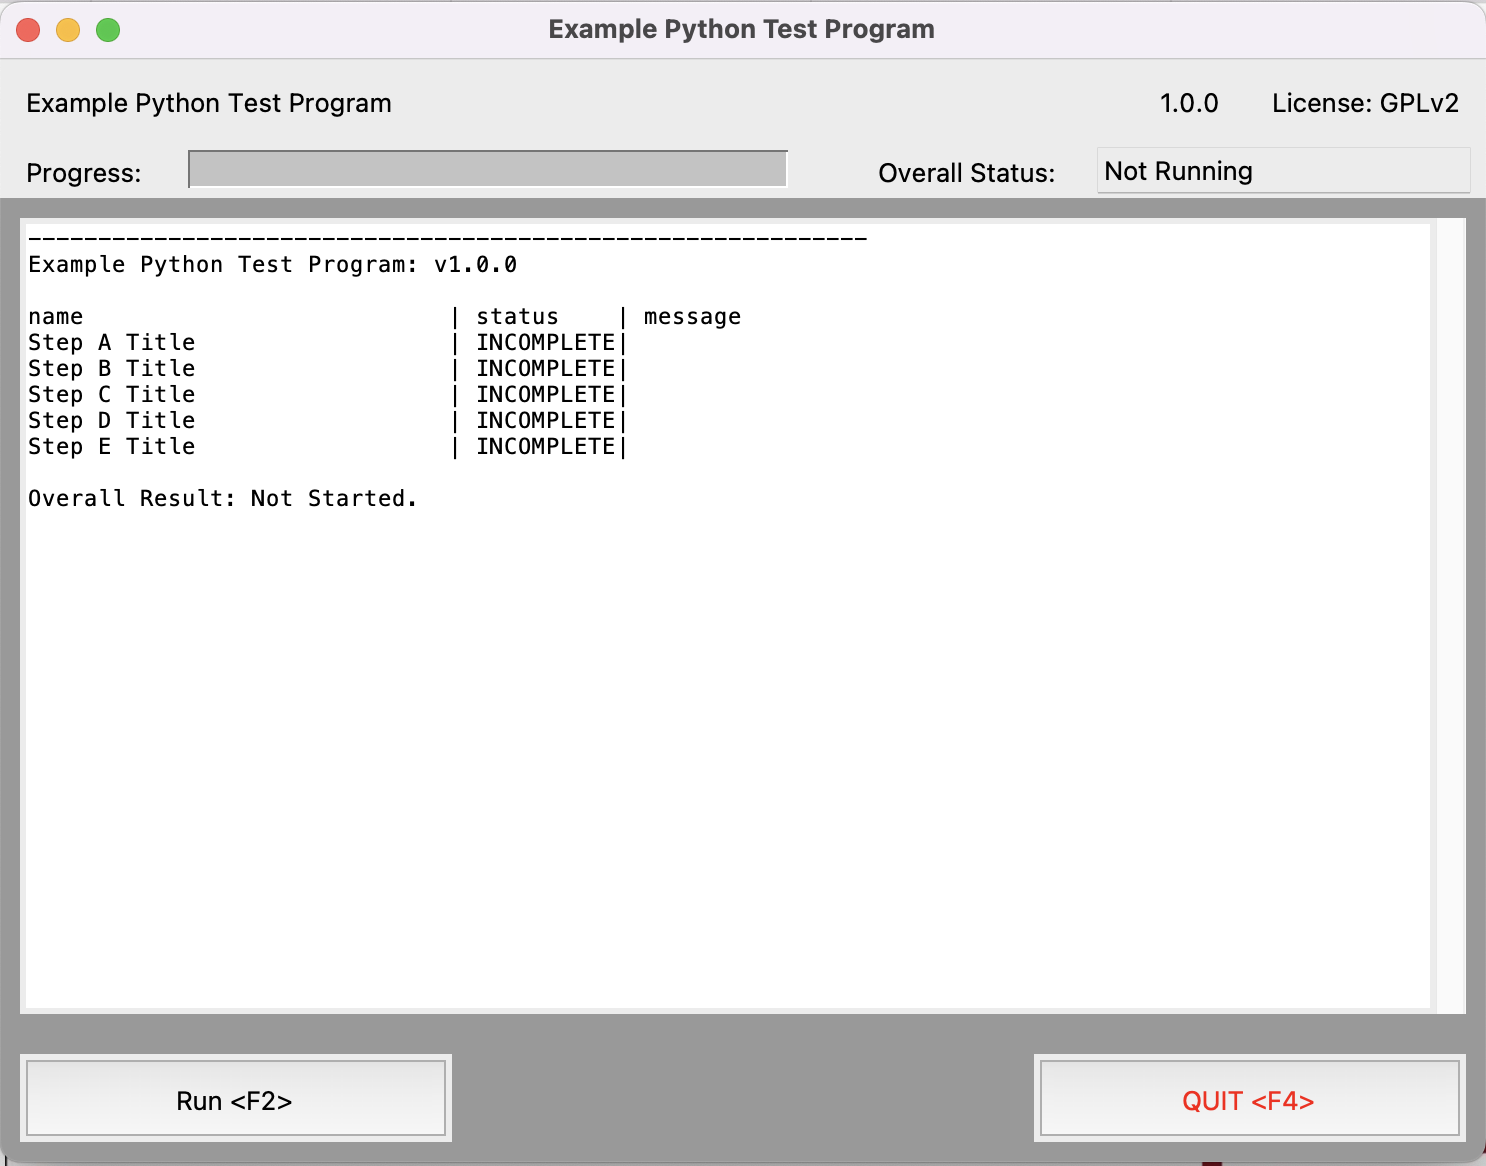
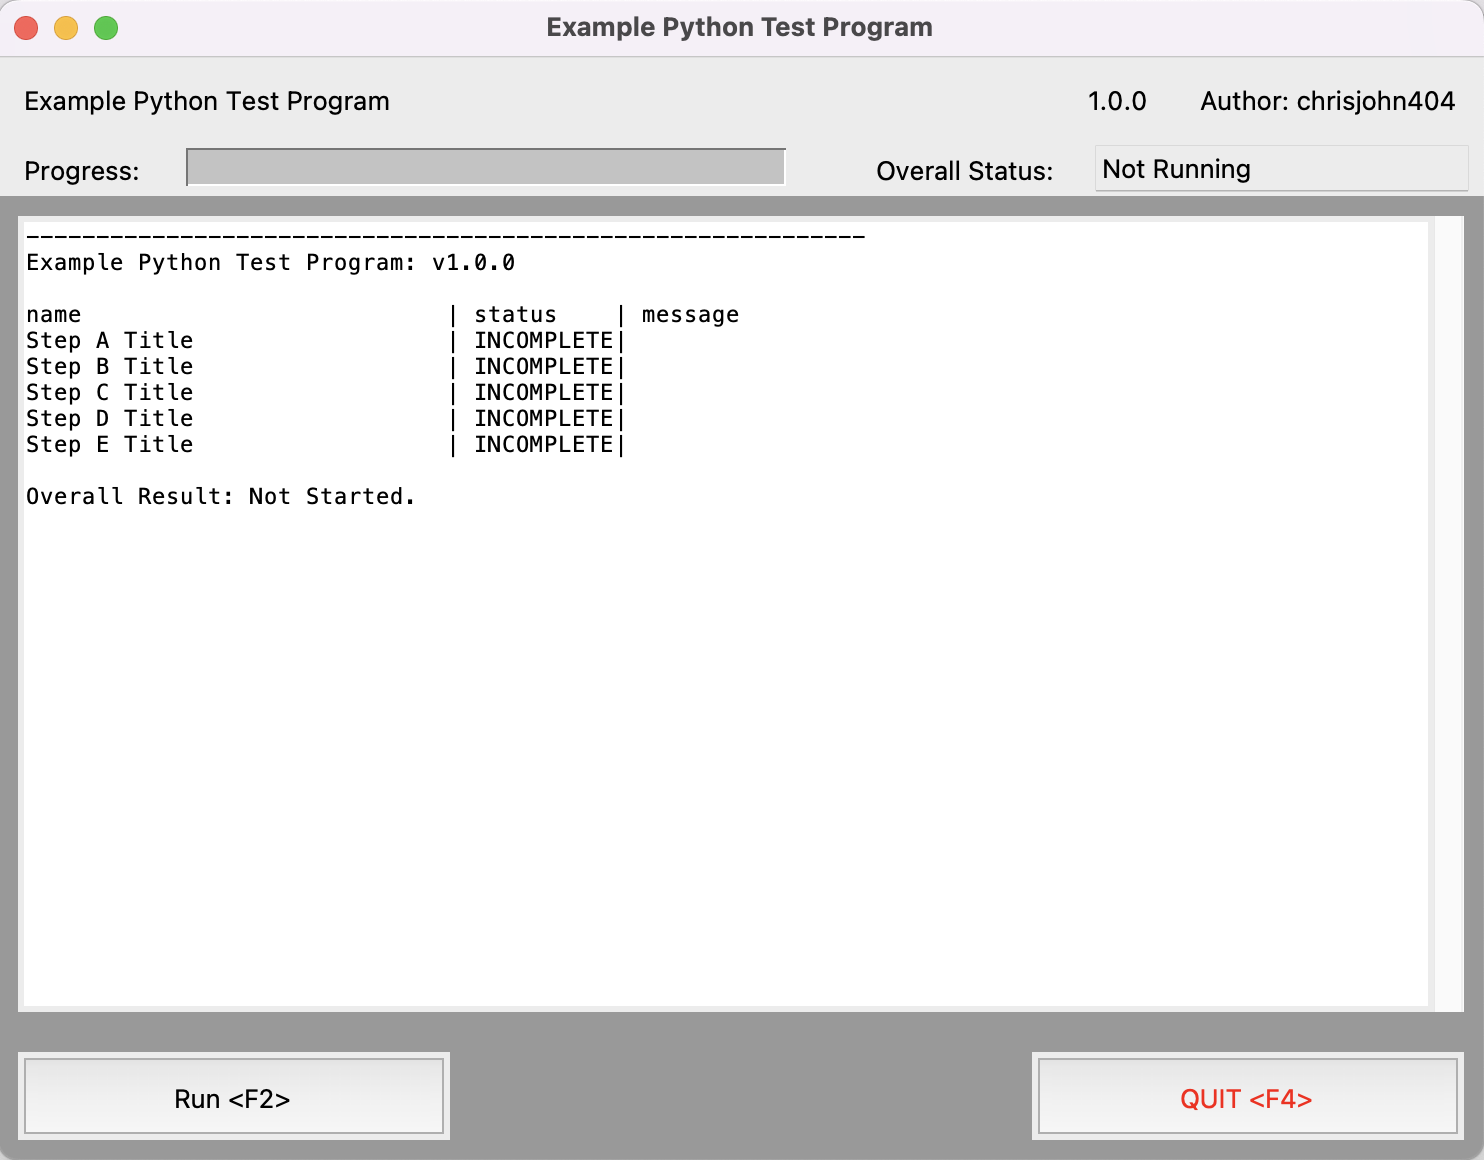
Added author note for screen shot.

diff --git a/tp_core/gui.py b/tp_core/gui.py
@@ -183,7 +183,7 @@ class TestApplication(Frame):
         self.appLabel.pack({'padx':10, 'pady':10, 'fill':'x', 'expand':'false', 'side':'left'})
 
         self.licenseLabel = Label(self.header)
-        self.licenseLabel['text'] = 'License: GPLv2'
+        self.licenseLabel['text'] = 'Author: chrisjohn404'
         self.licenseLabel.pack({'padx':10, 'pady':10, 'fill':'x', 'expand':'false', 'side':'right'})
 
         self.versionLabel = Label(self.header)
